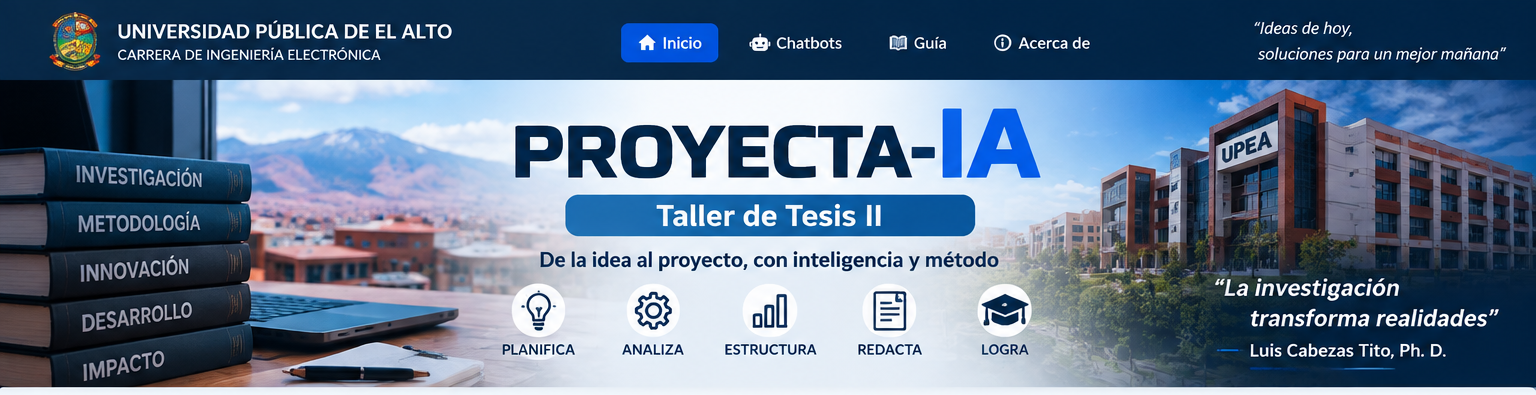
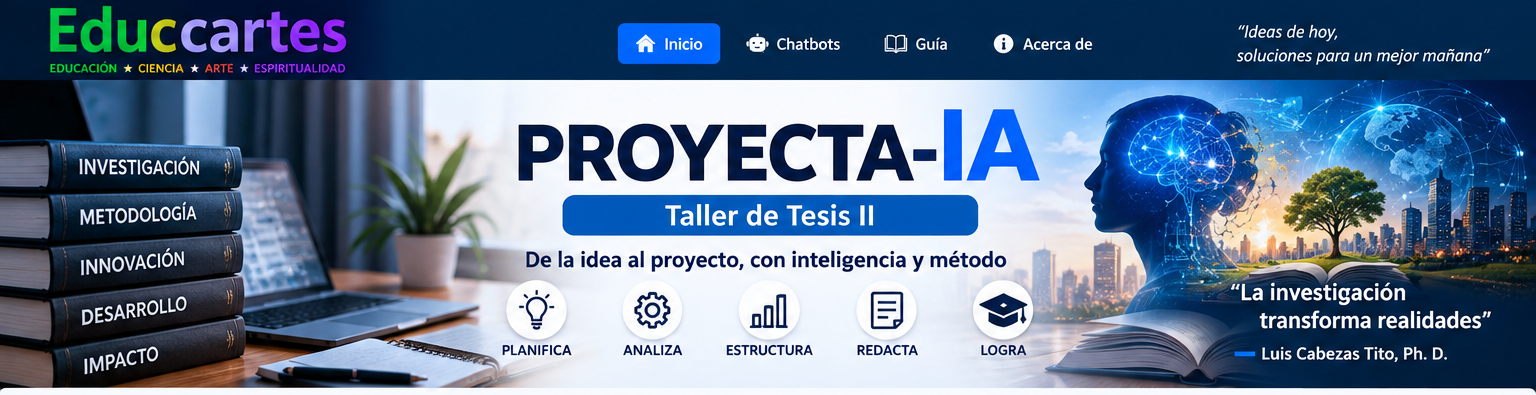
Add files via upload

diff --git a/index.html b/index.html
@@ -3,7 +3,7 @@
 <head>
   <meta charset="utf-8">
   <meta name="viewport" content="width=device-width, initial-scale=1">
-  <meta name="description" content="Portal PROYECTA-IA para Taller de Tesis II - Ingeniería Electrónica.">
+  <meta name="description" content="Portal PROYECTA-IA para Taller de Tesis II y elaboración de Proyectos de Grado.">
   <title>PROYECTA-IA | Taller de Tesis II</title>
   <link rel="stylesheet" href="styles.css">
 </head>
@@ -14,7 +14,7 @@
         <div class="brand-mark">P</div>
         <div>
           <h1>PROYECTA-IA</h1>
-          <p>Taller de Tesis II · Ingeniería Electrónica</p>
+          <p>Taller de Tesis II · Proyecto de Grado</p>
         </div>
       </div>
 </div>
@@ -92,8 +92,7 @@
         <div class="module-body">
           <h3>Objeto de Estudio</h3>
           <p>
-            Verifica que el objeto de estudio sea el sistema, prototipo, dispositivo o solución
-            electrónica central y que corresponda con el título y objetivo general.
+            Verifica que el objeto de estudio identifique con precisión el elemento, sistema, proceso, población, fenómeno o solución central del proyecto y que corresponda con el título y objetivo general.
           </p>
           <a class="module-link" href="https://luisctito-sketch.github.io/proyecta-ia-objeto-estudio/" target="_blank" rel="noopener">
             Abrir chatbot <span>→</span>
@@ -127,7 +126,8 @@
           <p>
             Este portal irá incorporando progresivamente los demás apartados del Capítulo I
             y, posteriormente, los módulos de los Capítulos II, III, IV, V y VI hasta completar
-            todo el Proyecto de Grado.
+            todo el Proyecto de Grado. Su propósito es que, en el futuro, pueda servir a estudiantes
+            de distintas carreras, universidades e instituciones educativas.
           </p>
         </div>
       </div>
@@ -153,7 +153,7 @@
     <div class="wrap footer-inner">
       <div>
         <strong>PROYECTA-IA</strong>
-        <p>Taller de Tesis II · Ingeniería Electrónica</p>
+        <p>Taller de Tesis II · Proyecto de Grado</p>
       </div>
       <div class="footer-creator">
         <span>Creado por</span>

diff --git a/styles.css b/styles.css
@@ -23,7 +23,7 @@ body{margin:0;background:var(--bg);color:var(--text);font-family:Arial,Helvetica
 .brand h1{font-size:20px;margin:0}.brand p{font-size:13px;color:var(--muted);margin:0}
 .logout-btn{border:1px solid #bfd0df;background:#fff;color:var(--navy);border-radius:10px;padding:9px 12px;font-weight:700;cursor:pointer}.logout-btn:hover{background:var(--soft)}
 .hero{margin-top:28px;display:grid;grid-template-columns:1.55fr .8fr;background:#fff;border:1px solid var(--line);border-radius:22px;overflow:hidden;box-shadow:0 14px 38px rgba(16,42,67,.08)}
-.hero-image{min-height:310px;background:#0d3156}.hero-image img{display:block;width:100%;height:100%;object-fit:cover}
+.hero-image{min-height:310px;background:#0d3156}.hero-image img{display:block;width:100%;height:100%;object-fit:cover;object-position:center center}
 .hero-copy{padding:34px;display:flex;flex-direction:column;justify-content:center}
 .eyebrow{font-size:12px;letter-spacing:.13em;font-weight:800;color:#1769e8}
 .hero-copy h2{font-size:42px;line-height:1.05;margin:8px 0 14px}.lead{font-size:18px;color:#344054;margin:0 0 22px}

diff --git a/README.md b/README.md
@@ -1,21 +1,29 @@
-# PROYECTA-IA — Portal principal público de Taller de Tesis II
+# PROYECTA-IA — Portal principal público y universal
 
-Este repositorio corresponde a la **página principal pública** de PROYECTA-IA.
+Esta versión del portal principal de **PROYECTA-IA** utiliza una identidad académica independiente, sin vincularse visualmente a una universidad específica.
 
-## Funcionamiento
+## Enfoque
 
-- La página principal **NO solicita C.I. ni clave de acceso**.
-- Cualquier persona puede ver los módulos disponibles.
-- Al hacer clic en un chatbot, se abre el módulo correspondiente.
-- **Cada chatbot conserva su propio control de acceso por C.I.**, conectado al sistema central ya configurado.
-- El repositorio de actualización de C.I. no aparece ni se enlaza públicamente desde esta página.
+El portal está concebido para evolucionar hacia una herramienta abierta a estudiantes de:
 
-## Módulos incluidos
+- distintas carreras;
+- distintas universidades;
+- institutos;
+- otras instituciones educativas.
+
+La portada mantiene la identidad de **Educcartes** y **PROYECTA-IA**.
+
+## Módulos incluidos actualmente
 
 - Introducción
 - Antecedentes
 - Objeto de Estudio
 - Título y Objetivo General
+
+## Acceso
+
+La portada principal es pública.  
+Cada chatbot conserva su propio control de acceso por C.I. según la configuración actual.
 
 ## Archivos
 
@@ -27,14 +35,8 @@ Este repositorio corresponde a la **página principal pública** de PROYECTA-IA.
 
 ## Actualización en GitHub
 
-En el repositorio `proyecta-ia` reemplaza los archivos existentes por los de este paquete.
-
-No debes modificar `Settings > Pages`.
+En el repositorio `proyecta-ia`, reemplaza los archivos actuales por los de este paquete.
 
 La dirección pública seguirá siendo:
 
 `https://luisctito-sketch.github.io/proyecta-ia/`
-
-## Ampliación futura
-
-Para incorporar nuevos chatbots bastará con añadir nuevas tarjetas/enlaces a esta misma portada.
